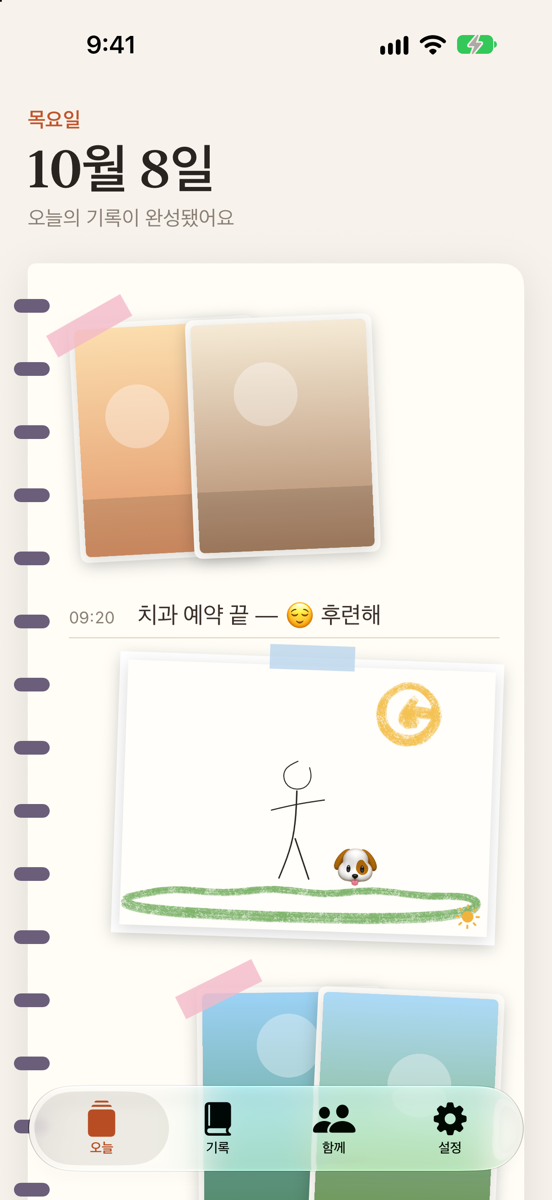
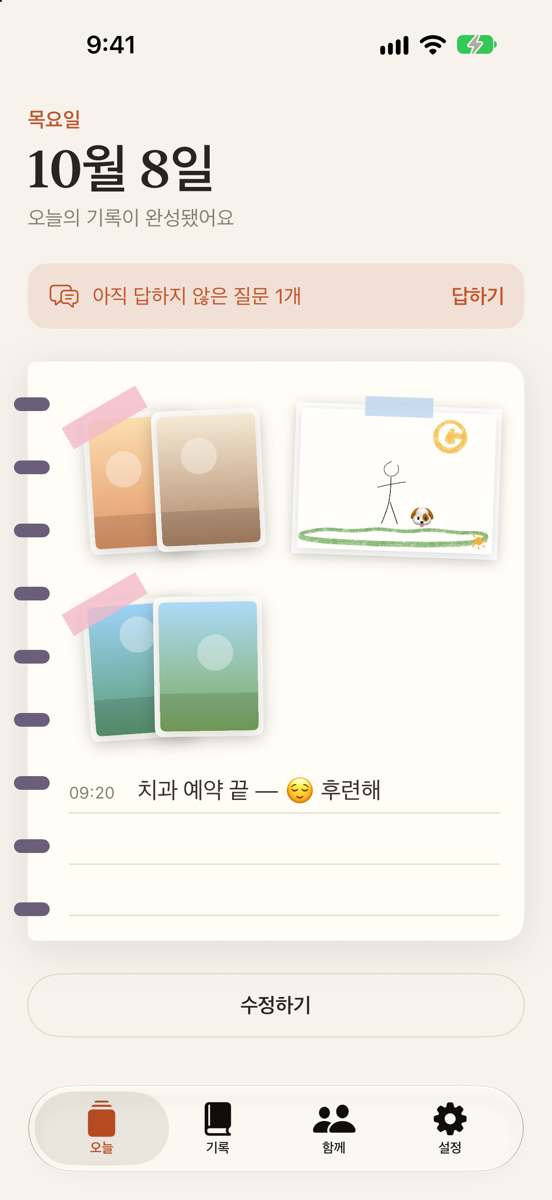
Fit the notebook page on one screen and keep the add chips on one row
Photos and drawings now sit as small taped prints in a grid at the top of
the page, with answers and notes on the ruled lines below, so a whole day
is visible without scrolling. On iPad they line up in a single row.
The composer's add chips are shortened to 메모 · 사진 · 그림 so they always
fit on one line.

diff --git a/FragmentDiary/Features/History/JournalPageView.swift b/FragmentDiary/Features/History/JournalPageView.swift
@@ -1,7 +1,7 @@
 import SwiftUI
 
-/// A saved day as one page of a spiral notebook: photos taped in as prints, answers and notes
-/// written on the ruled lines, drawings stuck on like notes — all in the order they happened.
+/// A saved day as one page of a spiral notebook: small prints and drawings stuck along the top,
+/// answers and notes written on the ruled lines below — compact enough to read the day at a glance.
 struct JournalPageView: View {
     let entry: DiaryEntry
 
@@ -28,17 +28,23 @@ struct JournalPageView: View {
             if entry.quick, !entry.note.isEmpty {
                 HandLine(time: nil, text: entry.note, large: true)
             }
-            ForEach(Array(blocks.enumerated()), id: \.offset) { index, block in
-                switch block {
-                case .photos(let fragment):
-                    TapedPrints(photos: fragment.photos, leading: index.isMultiple(of: 2))
-                        .padding(.vertical, 14)
-                case .drawing(let fragment):
-                    PinnedDrawing(fragment: fragment, leading: !index.isMultiple(of: 2))
-                        .padding(.vertical, 14)
-                case .line(let time, let text):
-                    HandLine(time: time, text: text)
+            if !media.isEmpty {
+                LazyVGrid(columns: [GridItem(.adaptive(minimum: 140, maximum: 220), spacing: 14)], spacing: 18) {
+                    ForEach(Array(media.enumerated()), id: \.element.id) { index, fragment in
+                        Group {
+                            if fragment.kind == .drawing {
+                                PinnedDrawing(fragment: fragment)
+                            } else {
+                                TapedPrints(photos: fragment.photos)
+                            }
+                        }
+                        .rotationEffect(.degrees(index.isMultiple(of: 2) ? -2 : 2))
+                    }
                 }
+                .padding(.vertical, 10)
+            }
+            ForEach(Array(lines.enumerated()), id: \.offset) { _, line in
+                HandLine(time: line.time, text: line.text)
             }
             if !entry.quick, !entry.note.isEmpty {
                 HandLine(time: nil, text: entry.note)
@@ -61,24 +67,20 @@ struct JournalPageView: View {
         .environment(\.colorScheme, .light)
     }
 
-    enum Block {
-        case photos(Fragment)
-        case drawing(Fragment)
-        case line(String?, String)
+    /// Photos and drawings, stuck on in the order they happened.
+    private var media: [Fragment] {
+        entry.fragments.filter { ($0.kind == .photos && !$0.assetIDs.isEmpty) || ($0.kind == .drawing && $0.drawingID != nil) }
     }
 
-    private var blocks: [Block] {
-        entry.fragments.flatMap { fragment -> [Block] in
+    /// Everything written: answers, notes and the captions of photos and drawings.
+    private var lines: [(time: String?, text: String)] {
+        entry.fragments.compactMap { fragment in
             let time = DateText.timelineLabel(for: fragment)
             switch fragment.kind {
-            case .photos:
-                return [.photos(fragment)] + (fragment.caption.isEmpty ? [] : [.line(time, fragment.caption)])
-            case .drawing:
-                return [.drawing(fragment)]
-            case .note:
-                return fragment.caption.isEmpty ? [] : [.line(time, fragment.caption)]
+            case .photos, .drawing, .note:
+                return fragment.caption.isEmpty ? nil : (time, fragment.caption)
             case .event, .reminder:
-                return [.line(time, Self.sentence(for: fragment))]
+                return (time, Self.sentence(for: fragment))
             }
         }
     }
@@ -122,58 +124,47 @@ private struct HandLine: View {
     }
 }
 
-/// Photos as prints with a strip of washi tape, sitting a little left or right like they were stuck in by hand.
+/// A photo moment as small overlapping prints with a strip of washi tape.
 private struct TapedPrints: View {
     let photos: [PhotoRef]
-    let leading: Bool
 
     var body: some View {
-        PhotoCollage(photos: photos, height: 190)
+        PhotoCollage(photos: photos, height: 118)
             .overlay(alignment: .topLeading) {
                 WashiTape(rgb: 0xF3B8C8)
                     .rotationEffect(.degrees(-28))
-                    .offset(x: -14, y: 2)
+                    .offset(x: -12, y: 2)
             }
-            .rotationEffect(.degrees(leading ? -1.5 : 1.5))
-            .frame(maxWidth: .infinity, alignment: leading ? .leading : .trailing)
+            .frame(maxWidth: .infinity)
     }
 }
 
-/// A drawing page stuck onto the notebook like a note card, with its caption written underneath.
+/// A drawing page stuck on like a small note card.
 private struct PinnedDrawing: View {
     let fragment: Fragment
-    let leading: Bool
 
     var body: some View {
-        VStack(alignment: leading ? .leading : .trailing, spacing: 8) {
-            if let id = fragment.drawingID {
-                JournalAttachmentImage(attachmentID: id)
-                    .aspectRatio(DrawingDiary.aspectRatio, contentMode: .fit)
-                    .padding(6)
-                    .background(Color.white)
-                    .shadow(color: .black.opacity(0.15), radius: 6, y: 3)
-                    .overlay(alignment: .top) {
-                        WashiTape(rgb: 0xB8D4EC).offset(y: -9)
+        if let id = fragment.drawingID {
+            JournalAttachmentImage(attachmentID: id)
+                .aspectRatio(DrawingDiary.aspectRatio, contentMode: .fit)
+                .padding(4)
+                .background(Color.white)
+                .shadow(color: .black.opacity(0.15), radius: 5, y: 2)
+                .overlay(alignment: .top) {
+                    WashiTape(rgb: 0xB8D4EC).scaleEffect(0.8).offset(y: -8)
+                }
+                .overlay(alignment: .bottomTrailing) {
+                    if let weather = fragment.weather {
+                        Image(systemName: weather.symbol)
+                            .font(.caption)
+                            .foregroundStyle(weather.color)
+                            .padding(6)
                     }
-                    .overlay(alignment: .bottomTrailing) {
-                        if let weather = fragment.weather {
-                            Image(systemName: weather.symbol)
-                                .foregroundStyle(weather.color)
-                                .padding(10)
-                        }
-                    }
-                    .frame(maxWidth: 280)
-                    .rotationEffect(.degrees(leading ? -2 : 2))
-                    .accessibilityLabel("그림")
-            }
-            if !fragment.caption.isEmpty {
-                Text(fragment.caption)
-                    .font(.system(size: 16, design: .serif))
-                    .foregroundStyle(Color(rgb: 0x3B3029))
-                    .padding(.top, 4)
-            }
+                }
+                .frame(maxHeight: 118)
+                .frame(maxWidth: .infinity)
+                .accessibilityLabel("그림")
         }
-        .frame(maxWidth: .infinity, alignment: leading ? .leading : .trailing)
     }
 }
 

diff --git a/FragmentDiary/Features/Today/ComposerView.swift b/FragmentDiary/Features/Today/ComposerView.swift
@@ -116,33 +116,21 @@ struct ComposerView<Accessory: View>: View {
         }
     }
 
-    /// One row when it fits; on narrow screens the chips wrap so none gets cut off.
+    /// Short labels so all three fit on one row, even beside the timeline on the smallest iPhone.
     private var addRow: some View {
-        ViewThatFits(in: .horizontal) {
-            HStack(spacing: 8) { addButtons }
-            VStack(alignment: .leading, spacing: 8) {
-                HStack(spacing: 8) {
-                    noteButton
-                    photoButton
-                }
-                drawButton
-            }
+        HStack(spacing: 8) {
+            noteButton
+            photoButton
+            drawButton
         }
         .buttonStyle(ChipButtonStyle())
-    }
-
-    @ViewBuilder
-    private var addButtons: some View {
-        noteButton
-        photoButton
-        drawButton
     }
 
     private var noteButton: some View {
         Button {
             withAnimation(.snappy) { draft.addNote() }
         } label: {
-            Label("메모 조각", systemImage: "text.quote")
+            Label("메모", systemImage: "text.quote")
         }
     }
 
@@ -150,7 +138,7 @@ struct ComposerView<Accessory: View>: View {
     private var photoButton: some View {
         if collector.canReadPhotos {
             PhotosPicker(selection: $pickedPhotos, maxSelectionCount: 12, matching: .images, photoLibrary: .shared()) {
-                Label("사진 더하기", systemImage: "photo.badge.plus")
+                Label("사진", systemImage: "photo.badge.plus")
             }
         }
     }
@@ -159,7 +147,7 @@ struct ComposerView<Accessory: View>: View {
         Button {
             drawingTarget = DrawingTarget(fragment: nil)
         } label: {
-            Label("그림 그리기", systemImage: "scribble.variable")
+            Label("그림", systemImage: "scribble.variable")
         }
     }
 

diff --git a/README.md b/README.md
@@ -24,8 +24,8 @@
 - **조각 자동 수집**: 오늘 찍은 사진(1시간 안에 찍은 사진은 한 묶음, 스크린샷 제외)이 시간순 타임라인으로 모여 있어요.
 - **오늘의 질문**: 이미 지난 캘린더 일정과 미리 알림에서 끝낸 일을 그대로 베껴 보여주지 않고 "‘민지랑 점심’, 어땠어요?", "‘치과 예약’을 끝냈네요!" 같은 질문으로 바꿔요. 오늘 화면에는 요약 한 줄만 있고, 누르면 질문 카드를 한 장씩 넘기며 감정 버튼 한 번이나 한 줄로 답해요. 답한 질문만 일기에 들어가요.
 - **고르고 한 줄만**: 조각을 체크하고 원하면 한 줄씩 덧붙이면 끝이에요. 메모 조각, 사진 추가, 무드(오늘의 결)도 고를 수 있어요.
-- **공책 한 장에 붙인 하루**: 기록을 완성하면 오늘 탭이 스프링 공책 한 장이 돼요. 사진은 테이프로 붙인 인화지, 질문의 답과 메모는 줄 위에 쓴 글, 그림은 붙여 둔 쪽지처럼 시간순으로 놓여요. 기록 탭의 상세 화면도 같은 모습이에요.
-- **그림 그리기 조각**: 쓰는 화면의 "메모 조각 · 사진 더하기" 옆 "그림 그리기"를 누르면 날짜·날씨 칸, 그림 칸, 원고지 칸이 있는 그림일기 공책이 열려요. 연필·크레용·형광펜·펜으로 그리고 스티커를 붙이면, 그림이 타임라인에 조각으로 들어가요. 눌러서 이어 그릴 수 있어요.
+- **공책 한 장에 붙인 하루**: 기록을 완성하면 오늘 탭이 스프링 공책 한 장이 돼요. 위에는 사진과 그림이 테이프로 붙인 작은 인화지처럼 나란히, 아래 줄에는 질문의 답과 메모가 시간순으로 쓰여 하루가 한 화면에 들어와요. 기록 탭의 상세 화면도 같은 모습이에요.
+- **그림 그리기 조각**: 쓰는 화면의 "메모 · 사진" 옆 "그림"를 누르면 날짜·날씨 칸, 그림 칸, 원고지 칸이 있는 그림일기 공책이 열려요. 연필·크레용·형광펜·펜으로 그리고 스티커를 붙이면, 그림이 타임라인에 조각으로 들어가요. 눌러서 이어 그릴 수 있어요.
 - **사진 꾸미기**: 일기에 넣은 사진 위에 그림을 그리거나 이모지·글자 스티커를 붙여요. 원본 사진은 그대로 두고 꾸민 사본만 암호화해 저장하며, 나중에 다시 열어 고칠 수 있어요.
 - **iPad와 Apple Pencil**: iPad에서도 실행돼요. 펜슬 더블탭으로 지우개 전환, "Apple Pencil로만 그리기" 설정을 따라요. iPhone에서는 손가락으로 그려요.
 - **한 줄 모드**: 바쁜 날엔 무드와 한 줄만으로 기록이 완성돼요. 사진이 가장 많은 묶음이 커버로 붙어요.
